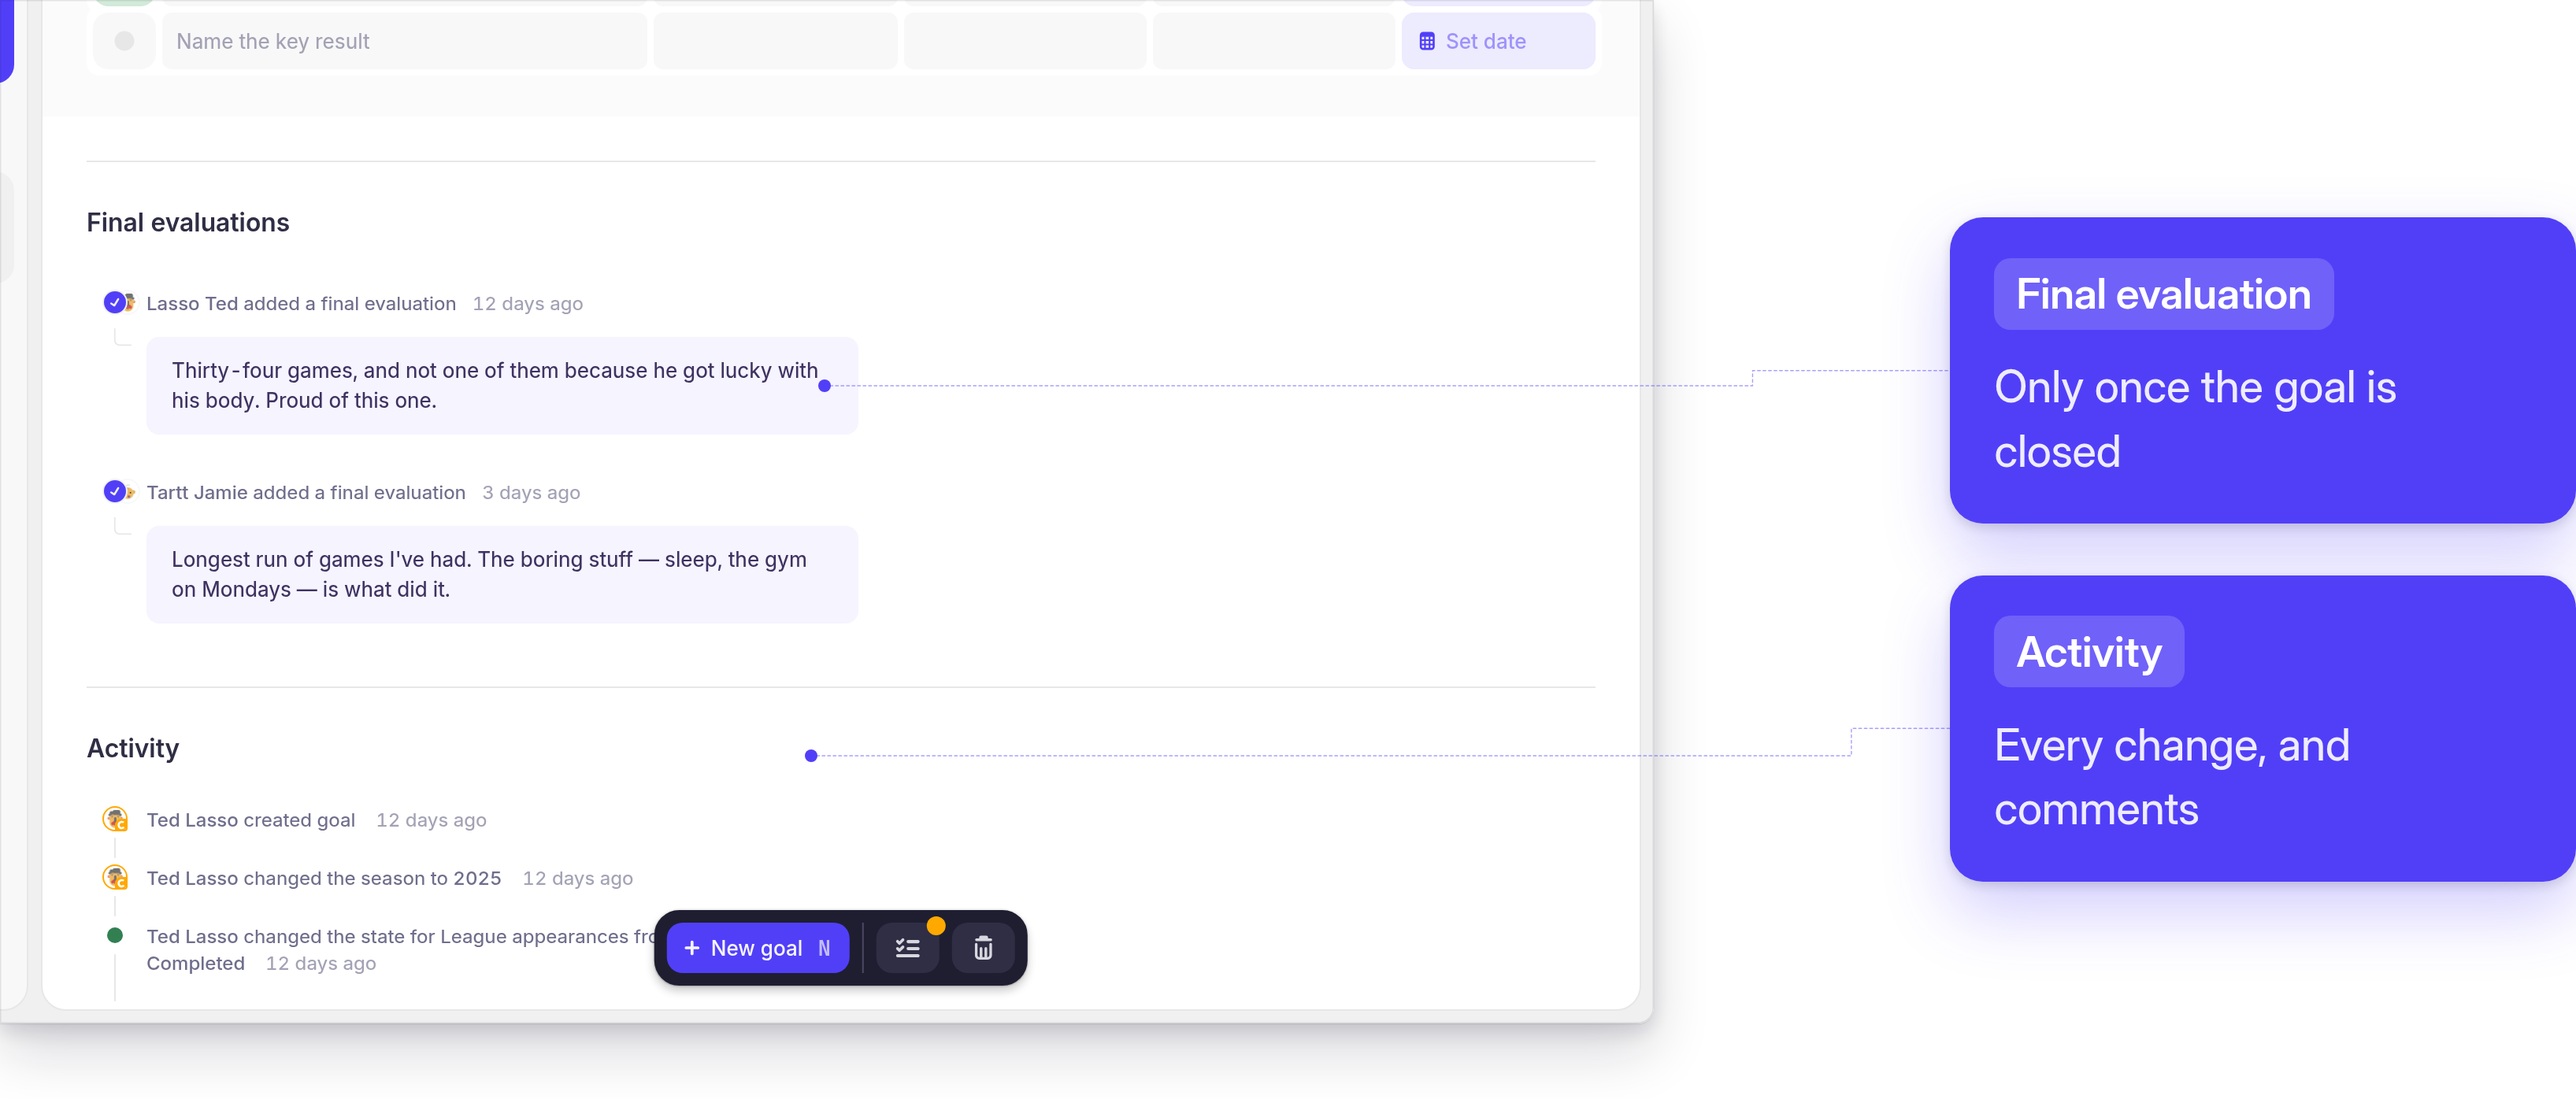
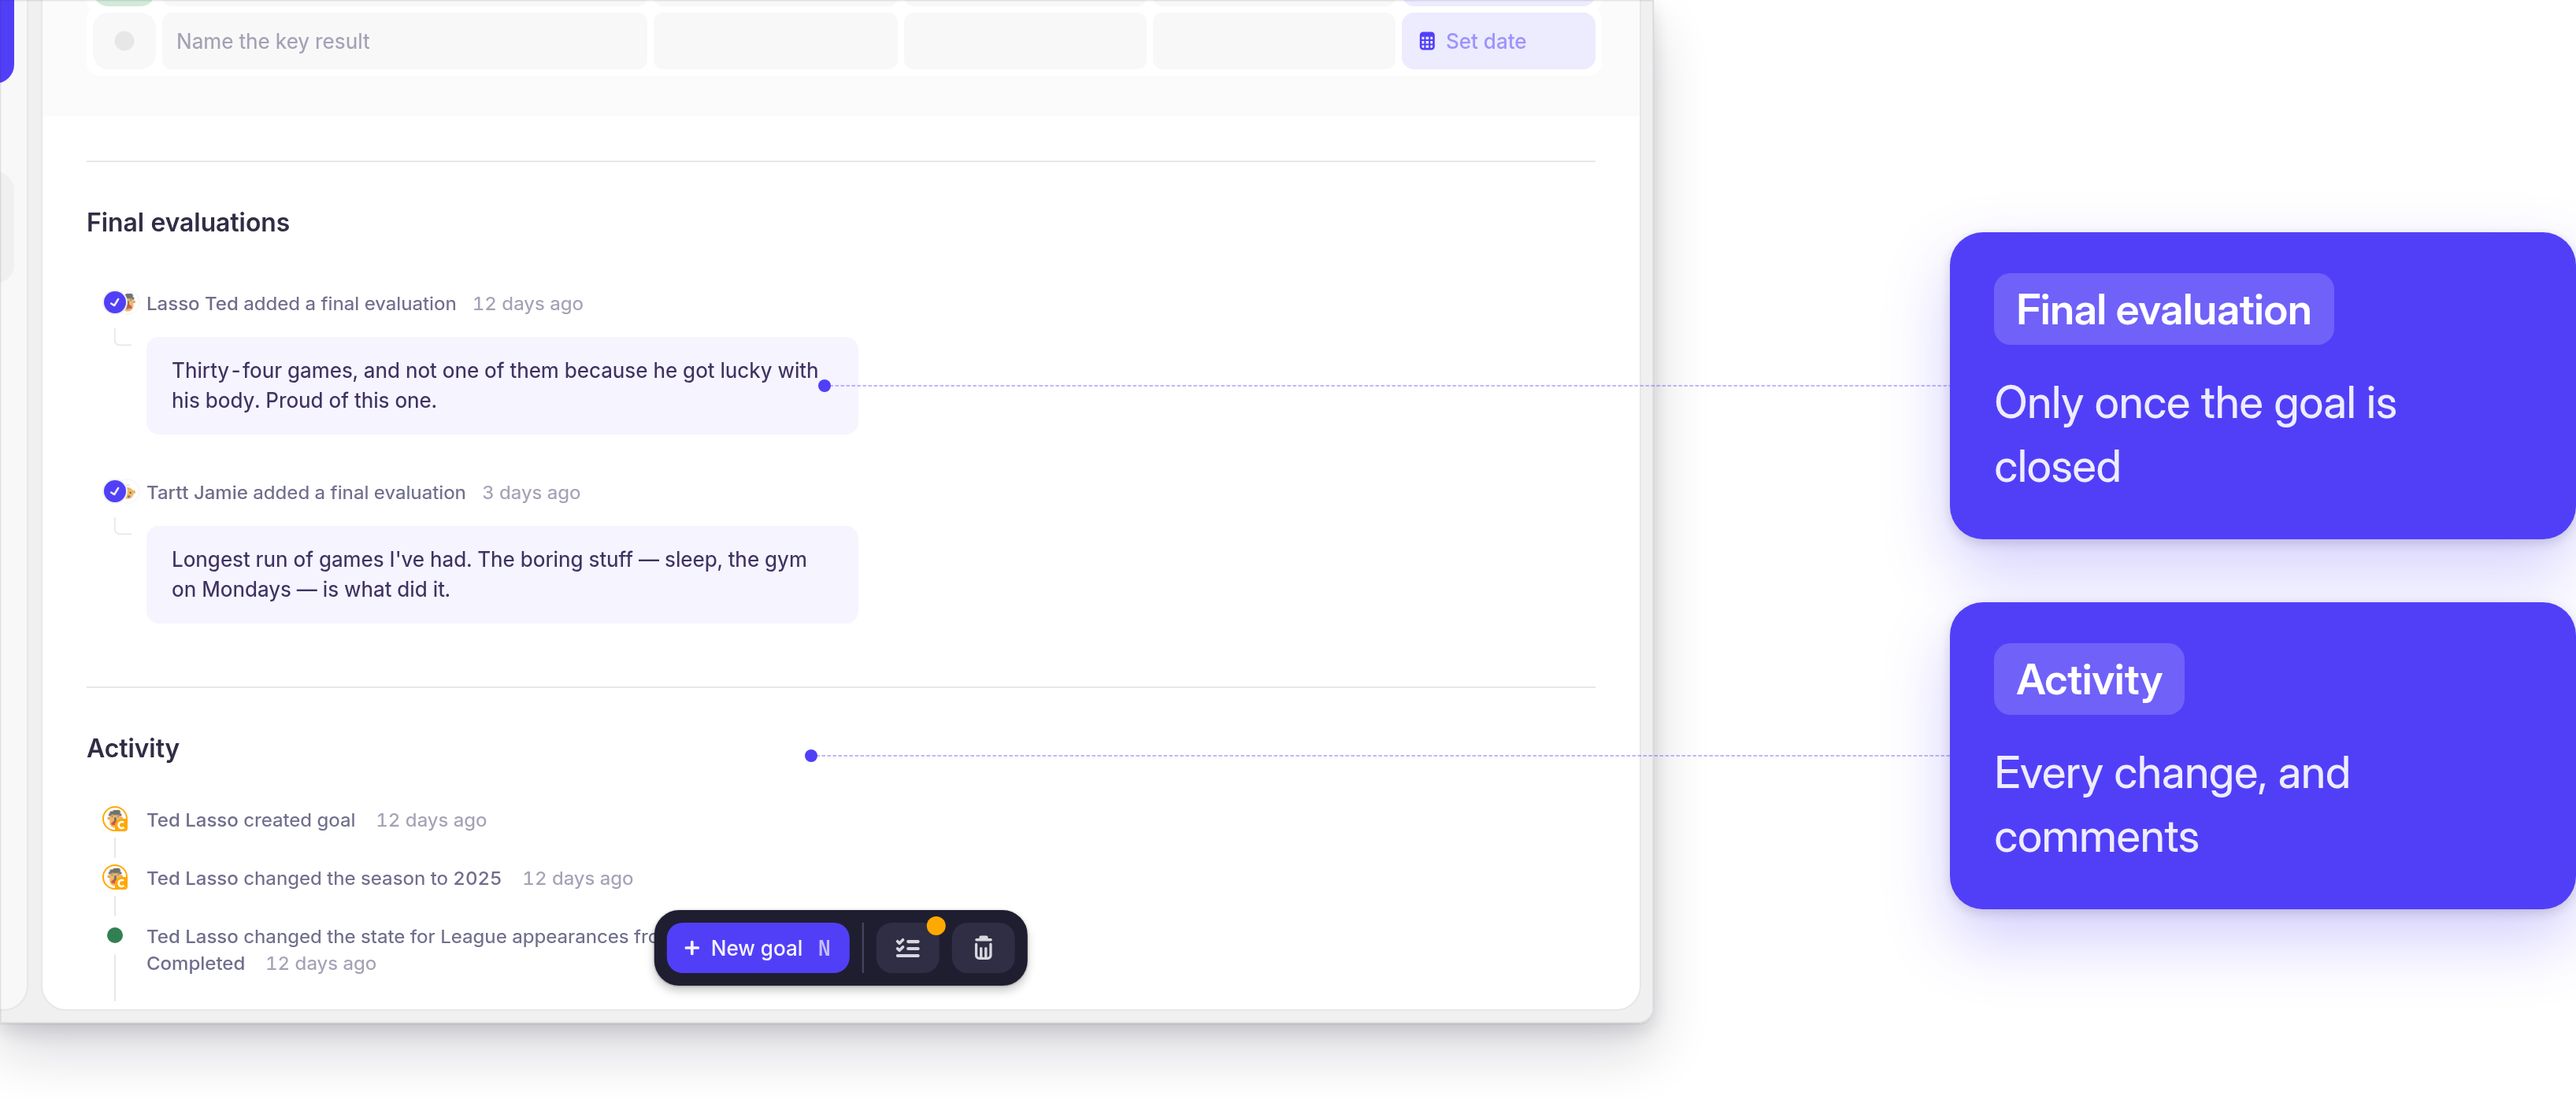
Goals figures: make the leader routing actually planar
The rails were assigned left-to-right by index, which is not
collision-proof: a lower callout's horizontal run reaches right across
the rails of the ones above it, and crosses any whose vertical happens to
span that height. With two callouts it looks fine; with four it crosses.

- Rails now run right-to-left as you go down the list — the topmost
  callout takes the rail nearest the cards. With anchors and cards in the
  same order, that ordering is what makes the routing planar: a lower
  leader can't reach far enough right to meet a higher one's rail, and its
  run into the card passes below their verticals.
- Cards are placed on their own anchors first (centred, then swept down
  for overlaps and back up if the stack overruns), instead of being spread
  evenly down a column. Most leaders are now a single straight line, and
  the ones that jog travel a short distance.
- Cards keep a margin from the figure's edges rather than sitting flush.

Claude-Session: https://claude.ai/code/session_01BcTgTxjwzSdWmEF7MFmzuM

diff --git a/docs-guide/visuals/demo-cast.md b/docs-guide/visuals/demo-cast.md
@@ -105,10 +105,16 @@ annotation column's width is derived the same way, so it holds its apparent size
 figure.
 
 **Let the browser lay the cards out, then draw the leaders.** Estimating card heights is what
-makes them collide. Cards go in a real flex column; a second pass measures where they landed
-and draws each leader from its anchor — horizontally out of the window, down a rail of its own,
-then straight into the card's edge. One rail per callout means no leader crosses another or
-disappears behind a card.
+makes them collide. A second pass measures each card, then:
+
+1. **Place each card on its own anchor** — centred on it, then swept down to clear overlaps and
+   back up if the stack overruns the bottom. Cards end up as close to their anchors as they can
+   get, so most leaders are a single straight line.
+2. **Assign rails right-to-left going down the list** — the topmost callout takes the rail
+   nearest the cards, the bottom one the rail nearest the window. That ordering is what makes
+   the routing planar: a lower leader can never reach far enough right to meet a higher one's
+   rail, and its run into the card passes below their verticals. Assigning rails the obvious way
+   (left-to-right) looks fine with two callouts and crosses with four.
 
 **Callout cards are Yarmill indigo with light text** (chip in a white tint, body at ~88%
 white), and they **sit off the app, in a transparent strip at the edge** of the figure — to the right
